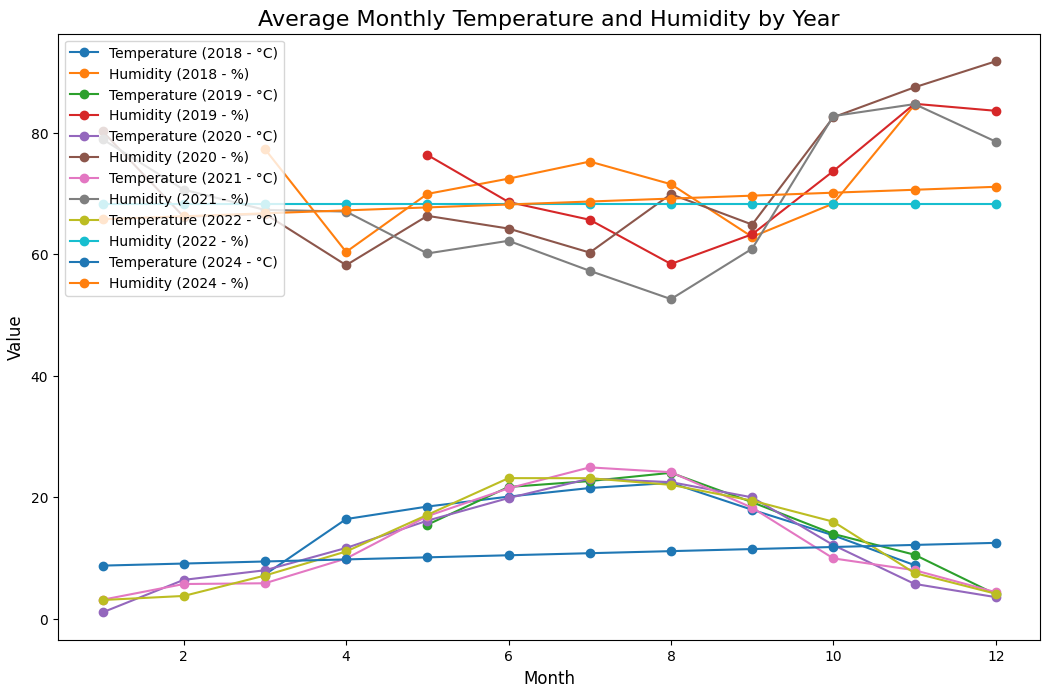
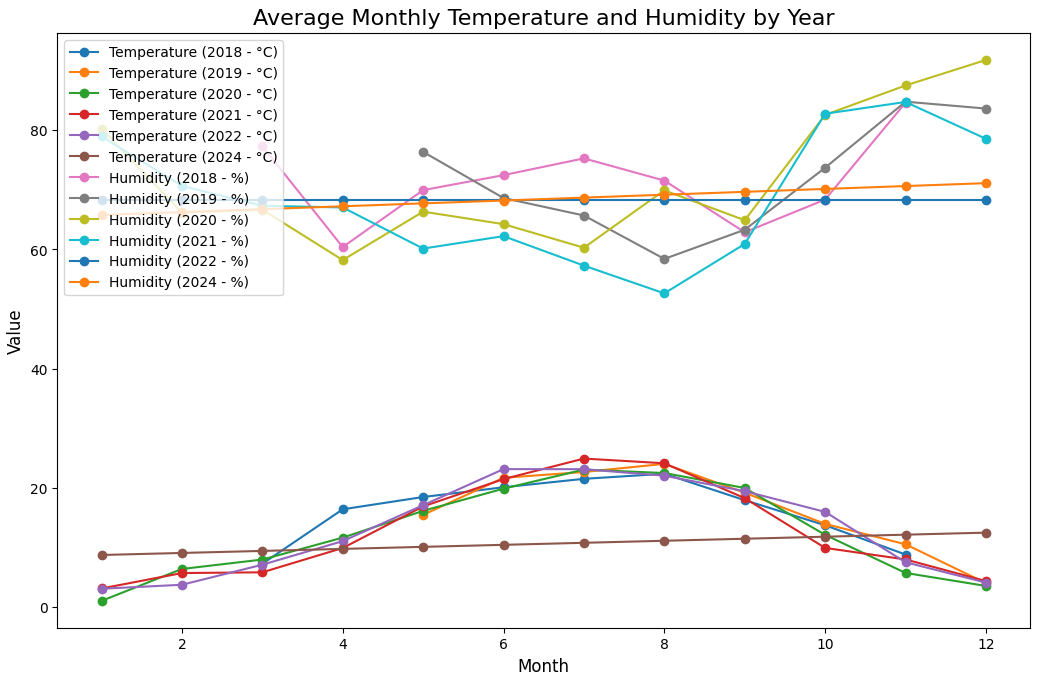
little updates

diff --git a/weather_analysis.py b/weather_analysis.py
@@ -38,7 +38,7 @@ correlation_matrix = merged_data.corr()
 plt.figure(figsize=(12, 10))
 sns.heatmap(correlation_matrix, annot=True, cmap='coolwarm', fmt=".2f", linewidths=0.5)
 plt.title('Correlation Matrix for Air Pressure, Humidity, Temperature, and Windspeed')
-#plt.show()
+plt.show()
 
 # Shto kolona për vitin dhe muajin
 merged_data['Year'] = merged_data['Timestamp'].dt.year
@@ -50,23 +50,34 @@ monthly_avg = merged_data.groupby(['Year', 'Month'])[['Temperature', 'Humidity']
 # Vizualizimi i temperaturës dhe lagështisë mesatare për secilën muaj brenda një grafiku
 plt.figure(figsize=(12, 8))
 
-# Itero për secilin vit dhe krijo një linjë për temperaturën dhe lagështinë
+
+handles, labels = [], []
+
+# Itero për secilin vit dhe krijo një linjë për temperaturën dhe pastaj për lagështinë
 for year in monthly_avg.index.get_level_values('Year').unique():
     year_data = monthly_avg.loc[year]
     
     # Temperatura
-    plt.plot(year_data.index, year_data['Temperature'], marker='o', label=f'Temperature ({year} - °C)')
+    temp_line, = plt.plot(year_data.index, year_data['Temperature'], marker='o', label=f'Temperature ({year} - °C)')
+    handles.append(temp_line)
+    labels.append(f'Temperature ({year} - °C)')
+
+# Itero përsëri për të shtuar linjat për lagështinë
+for year in monthly_avg.index.get_level_values('Year').unique():
+    year_data = monthly_avg.loc[year]
     
     # Lagështia
-    plt.plot(year_data.index, year_data['Humidity'], marker='o', label=f'Humidity ({year} - %)')
-    
+    hum_line, = plt.plot(year_data.index, year_data['Humidity'], marker='o', label=f'Humidity ({year} - %)')
+    handles.append(hum_line)
+    labels.append(f'Humidity ({year} - %)')
+
 # Titulli dhe etiketat
 plt.title('Average Monthly Temperature and Humidity by Year', fontsize=16)
 plt.xlabel('Month', fontsize=12)
 plt.ylabel('Value', fontsize=12)
 
-# Shtoni legjendën për të dalluar temperaturën dhe lagështinë
-plt.legend(loc='upper left')
+# Shtoni legjendën me renditje të personalizuar
+plt.legend(handles, labels, loc='upper left')
 
 # Shfaq grafikun
 plt.tight_layout()

diff --git a/Temperature/temperature.py b/Temperature/temperature.py
@@ -8,7 +8,8 @@ import plotly.express as px
 import matplotlib.pyplot as plt
 import seaborn as sns
 
-#Leximi i të dhënave (duhet të ketë një file CSV me kolonat 'Timestamp' dhe 'Humidity')
+
+#Leximi i të dhënave 
 data = pd.read_csv('Temperature/temperature.csv')
 
 #Shikojmë rreshtat e parë të datasetit
@@ -38,7 +39,7 @@ data['Hour'] = data['Timestamp'].dt.hour
 X = data[['Year', 'Month', 'Day', 'Hour']]  # Feature columns (Viti, Muaji, Dita, Ora)
 y = data['Temperature']  # Target column (Lagështira)
 
-#Ndara të dhënat në trajnime dhe test
+#Ndarja e të dhënave në trajnim dhe testim
 X_train, X_test, y_train, y_test = train_test_split(X, y, test_size=0.2, random_state=42)
 
 #Krijimi dhe trajnimi i modelit të regresionit linear
@@ -63,7 +64,7 @@ X_2024 = pd.DataFrame({
     'Hour': date_rng.hour
 })
 
-# Parashikimi i lagështirës për vitin 2024
+# Parashikimi i temperaturës për vitin 2024
 y_2024_pred = model.predict(X_2024)
 
 #Ruajtja e parashikimeve për vitin 2024 në një DataFrame

diff --git a/Humidity/humidity.py b/Humidity/humidity.py
@@ -100,7 +100,7 @@ fig = px.line(all_data, x='Timestamp', y='Humidity', title="Humidity From 2018-2
 fig.update_traces(mode='lines+markers', line=dict(color='red'))
 
 # Shfaq grafikun
-#fig.show()
+fig.show()
 
 all_data['Timestamp'] = pd.to_datetime(all_data['Timestamp'], utc=True, errors='coerce')
 print(all_data['Timestamp'].dtype)
